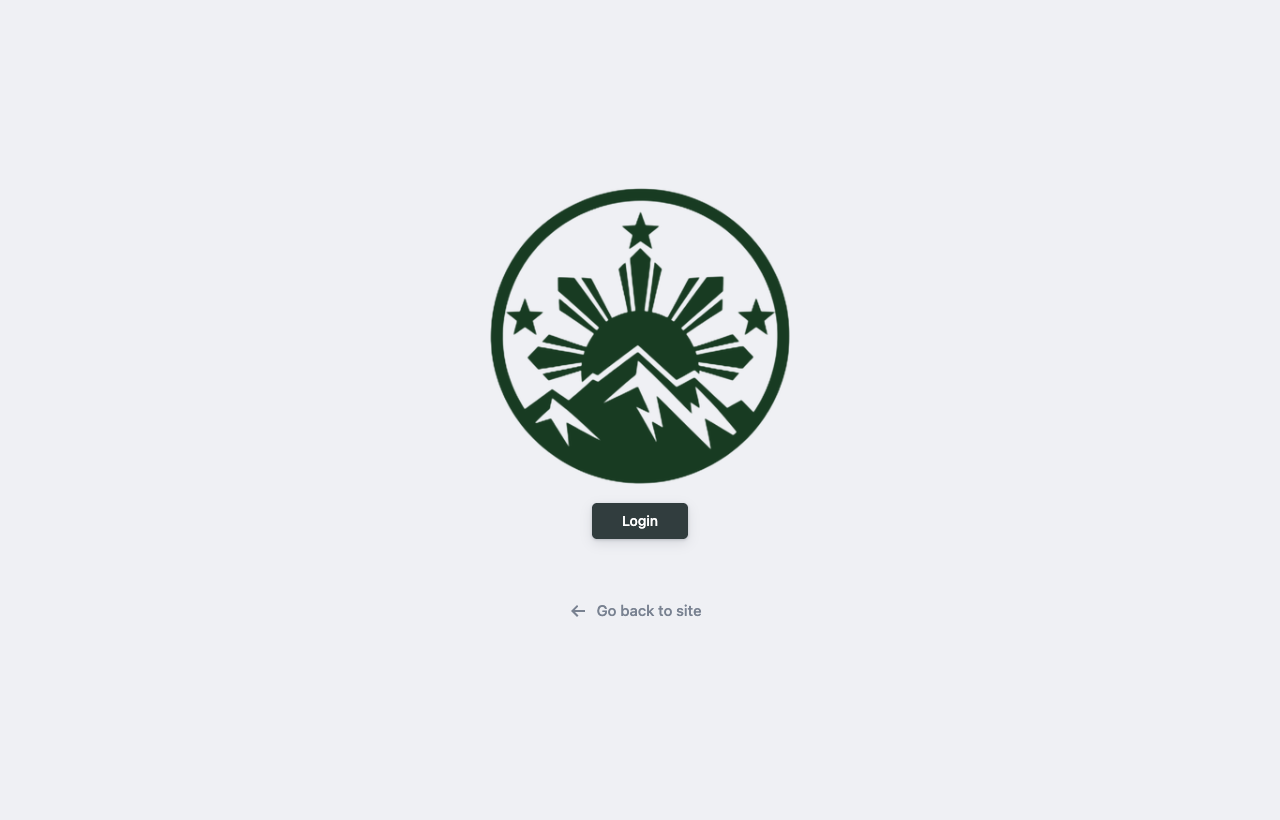
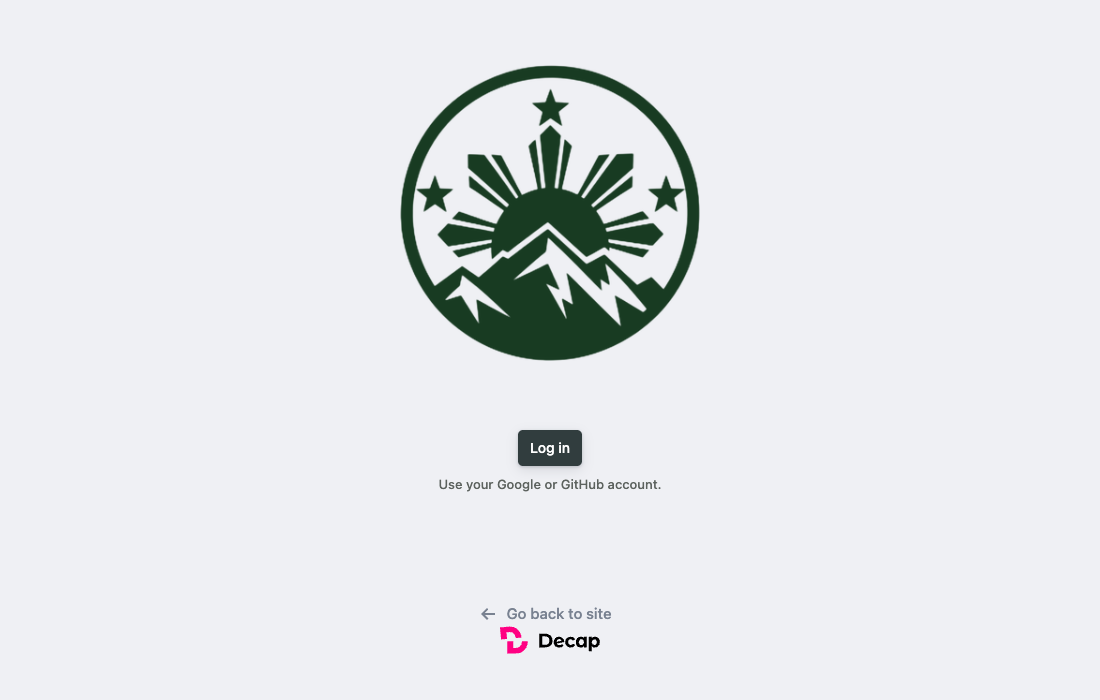
google

Changed region(s): [[0.34, 0.09, 0.6491, 0.75], [0.4327, 0.87, 0.5564, 0.93]]

diff --git a/client/public/admin/index.html b/client/public/admin/index.html
@@ -11,5 +11,27 @@
   </head>
   <body>
     <script src="https://unpkg.com/decap-cms@3.16.3/dist/decap-cms.js"></script>
+    <script>
+      // Decap's button says "Login with GitHub", but it opens our chooser with Google too.
+      // Relabel it so people without GitHub know they can sign in.
+      new MutationObserver(function () {
+        document.querySelectorAll('button').forEach(function (b) {
+          if (b.dataset.relabeled || b.textContent.trim() !== 'Login with GitHub') return;
+          b.dataset.relabeled = '1';
+          b.lastChild.textContent = 'Log in';
+          var icon = b.querySelector('svg');
+          if (icon) (icon.parentElement !== b ? icon.parentElement : icon).style.display = 'none';
+          // Keep the note right under the button instead of wherever Decap's layout spaces it.
+          var wrap = document.createElement('div');
+          wrap.style.cssText = 'display:flex;flex-direction:column;align-items:center;gap:10px';
+          b.parentNode.insertBefore(wrap, b);
+          wrap.appendChild(b);
+          var note = document.createElement('p');
+          note.textContent = 'Use your Google or GitHub account.';
+          note.style.cssText = 'margin:0;font:500 13px system-ui,sans-serif;color:#5c625e;text-align:center';
+          wrap.appendChild(note);
+        });
+      }).observe(document.body, { childList: true, subtree: true });
+    </script>
   </body>
 </html>

diff --git a/docs/CMS-GUIDE.md b/docs/CMS-GUIDE.md
@@ -10,14 +10,14 @@ This guide is for the crew members who keep the website up to date. You don't ne
 
 ## 1. Log in
 
-Go to **sakalam-overland.vercel.app/admin** and press **Login with GitHub**. A small window opens with two choices:
+Go to **sakalam-overland.vercel.app/admin** and press **Log in**. A small window opens with two choices:
 
 - **Continue with Google:** sign in with the Google account the site manager added.
 - **Continue with GitHub:** sign in with your GitHub account (first time only, press **Authorize**).
 
 The window closes by itself and you're in.
 
-![Login screen with the Sakalam logo and a Login button](images/01-login.png)
+![Login screen with the Sakalam logo, a Log in button and the note "Use your Google or GitHub account"](images/01-login.png)
 
 > First time? Tell the site manager which login you'll use. For Google, they add your Gmail address to the editor list. For GitHub, they add you to the project and you accept the email invitation. Your usual Google or GitHub password is your login.
 
